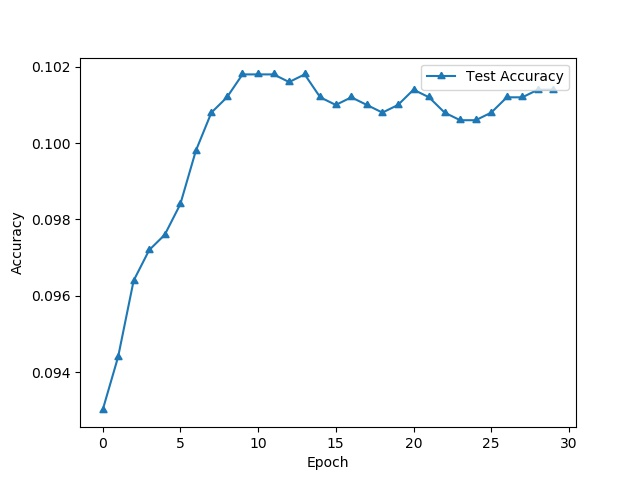
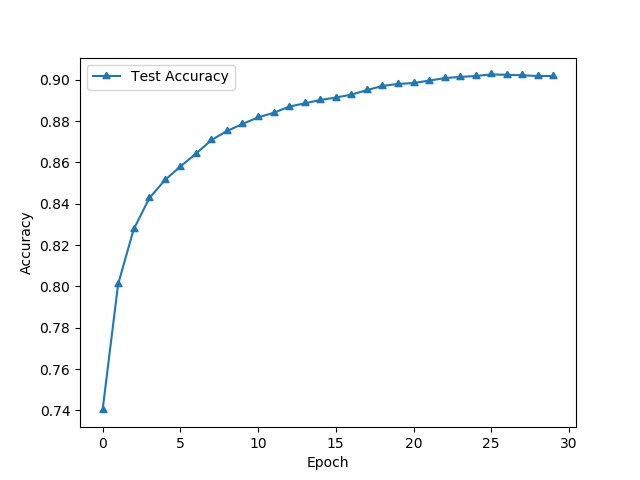
2b figures fixed

diff --git a/backprop/network.py b/backprop/network.py
@@ -29,15 +29,15 @@ class Network(object):
                         for x, y in zip(sizes[:-1], sizes[1:])]
 
     def SGD(self, training_data, epochs, mini_batch_size, learning_rate,
-            test_data, plot = False):
+            test_data):
         """Train the neural network using mini-batch stochastic
         gradient descent.  The ``training_data`` is a list of tuples
         ``(x, y)`` representing the training inputs and the desired
         outputs.  """
         print("Initial test accuracy: {0}".format(self.one_label_accuracy(test_data)))
         n = len(training_data)
-        train_acc = []
-        train_loss = []
+        # train_acc = []
+        # train_loss = []
         test_acc = []
         for j in tqdm(range(epochs)):
             random.shuffle(list(training_data))
@@ -46,28 +46,29 @@ class Network(object):
                 for k in range(0, n, mini_batch_size)]
             for mini_batch in mini_batches:
                 self.update_mini_batch(mini_batch, learning_rate)
-            train_acc.append(self.one_hot_accuracy(training_data))
-            test_acc.append(self.one_hot_accuracy(test_data))
-            train_loss.append(self.loss(training_data))
+            # train_acc.append(self.one_hot_accuracy(training_data))
+            # train_loss.append(self.loss(training_data))
+            test_acc.append(self.one_label_accuracy(test_data))
+
             #print ("Epoch {0} test accuracy: {1}".format(j, self.one_label_accuracy(test_data)))
 
-        tacc, = plt.plot(range(epochs), train_acc, label='Train Accuracy', marker=(1,0))
-        plt.legend(handles=[tacc])
-        plt.xlabel('Epoch')
-        plt.ylabel('Accuracy')
-        plt.savefig('trainacc.jpg')
-        plt.show()
-        tlss, = plt.plot(range(epochs), train_loss, label='Train Loss', marker=(2,0))
-        plt.legend(handles=[tlss])
-        plt.xlabel('Epoch')
-        plt.ylabel('Loss')
-        plt.savefig('trainloss.jpg')
-        plt.show()
+        # tacc, = plt.plot(range(epochs), train_acc, label='Train Accuracy', marker=(1,0))
+        # plt.legend(handles=[tacc])
+        # plt.xlabel('Epoch')
+        # plt.ylabel('Accuracy')
+        # plt.savefig('trainacc.jpg')
+        # plt.show()
+        # tlss, = plt.plot(range(epochs), train_loss, label='Train Loss', marker=(2,0))
+        # plt.legend(handles=[tlss])
+        # plt.xlabel('Epoch')
+        # plt.ylabel('Loss')
+        # plt.savefig('trainloss.jpg')
+        # plt.show()
         tstacc, = plt.plot(range(epochs), test_acc, label='Test Accuracy', marker=(3,0))
         plt.legend(handles=[tstacc])
         plt.xlabel('Epoch')
         plt.ylabel('Accuracy')
-        plt.savefig('testacc.jpg')
+        plt.savefig('testacc_c.jpg')
         plt.show()
 
 

diff --git a/backprop/main.py b/backprop/main.py
@@ -1,6 +1,6 @@
 import data
 import network
 
-training_data, test_data = data.load(train_size=10000,test_size=5000)
+training_data, test_data = data.load(train_size=50000,test_size=10000)
 net = network.Network([784, 40, 10])
 net.SGD(training_data, epochs=30, mini_batch_size=10, learning_rate=0.1, test_data=test_data)
